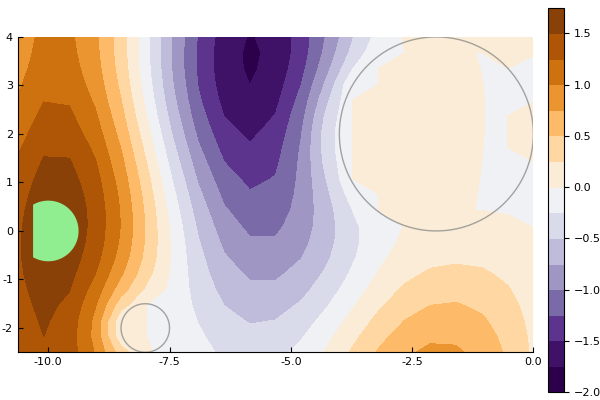
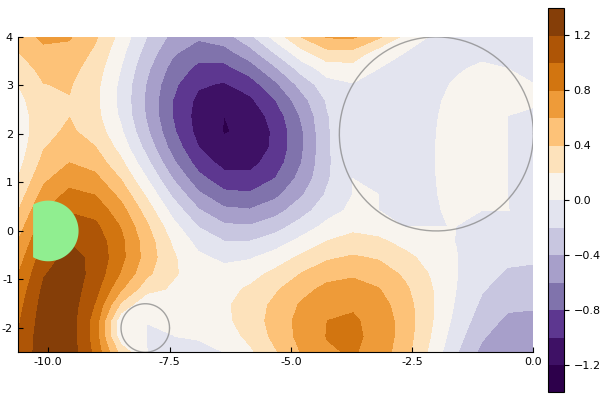
update intro figure

diff --git a/README.md b/README.md
@@ -55,7 +55,7 @@ plot(simulation)
 
 For a better overview you can plot the whole field for a specific k by typing:
 ```julia
-plot(simulation,0.8)
+plot(simulation,1.0)
 ```
 ![Plot real part of acoustic field](example/intro/plot_field.png)
 
